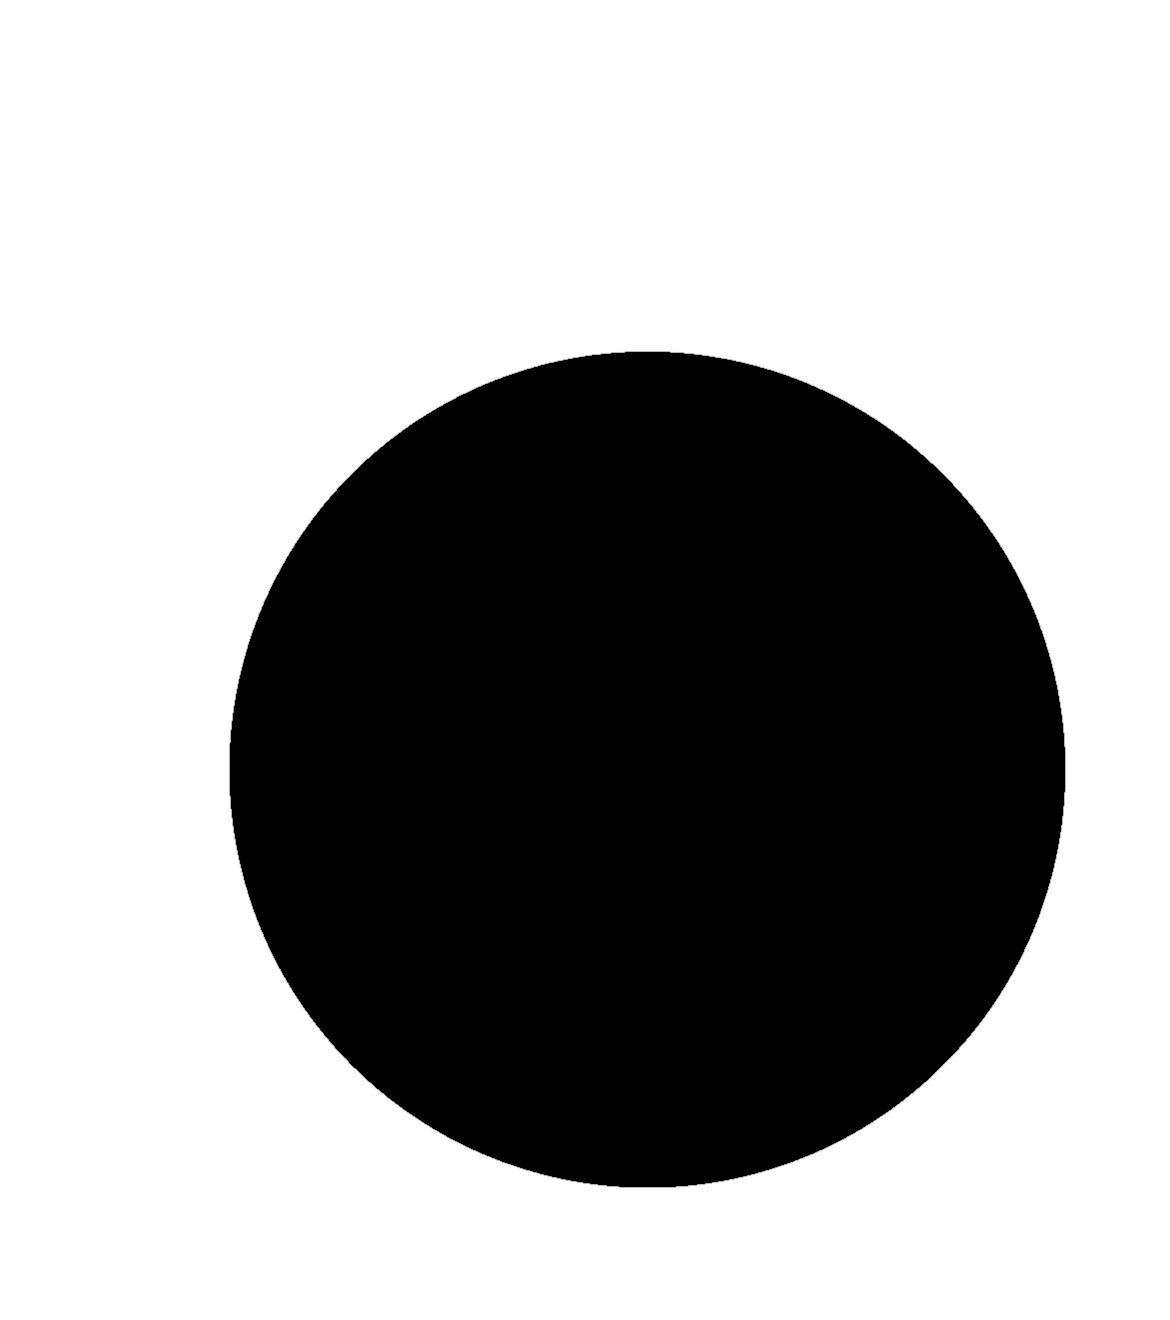
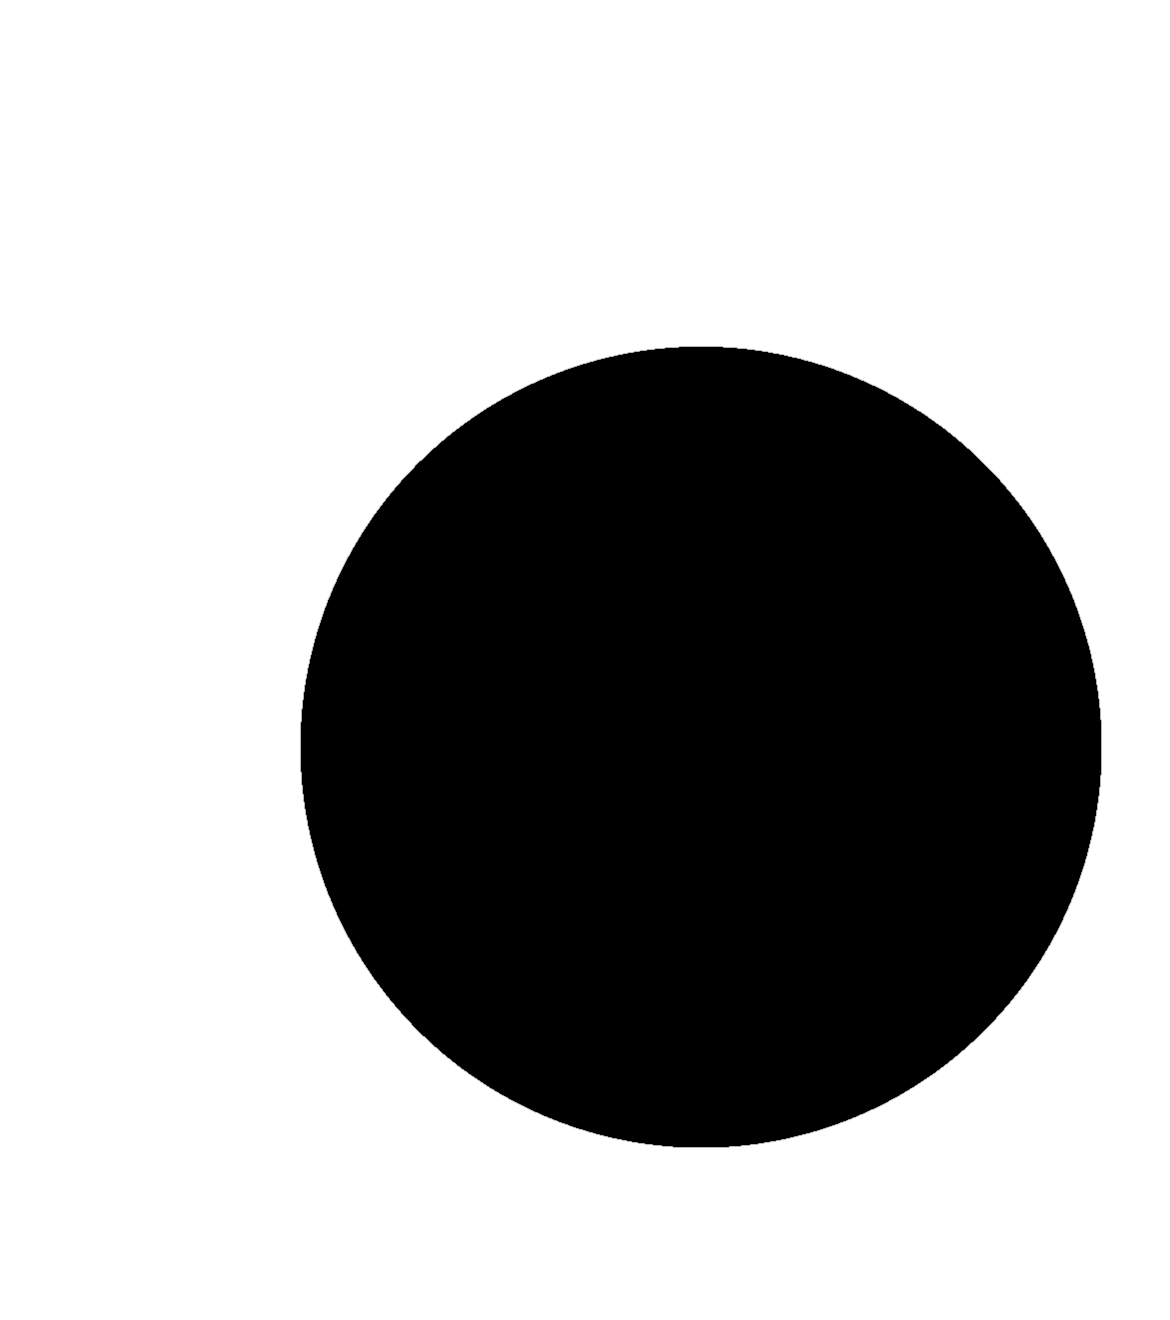
Animate sharp glass without sprite sheets
Use new native 3x rendered transparent art for History and Research. Interpolated transforms move and rotate the baked art without decoding a 49 MB atlas. Give the smaller ornaments a shallow alternating perspective tilt and keep the existing pause and Reduce Motion rules.

The old Research check watched its atlas frame index. With a single high-resolution source, progress is a change in the rendered transform.

diff --git a/glass/glass.css b/glass/glass.css
@@ -97,9 +97,32 @@
   .glass[data-float] > .glass-img {
     animation: glass-bob var(--glass-period) ease-in-out infinite alternate;
   }
+  .glass[data-hero-motion="sway"] > .glass-img {
+    transform-origin: 59.5% 57%;
+    animation: glass-capsule-sway 6s ease-in-out infinite;
+  }
+  .glass[data-hero-motion="orbit"] > .glass-img {
+    transform-origin: 58% 55%;
+    animation: glass-bubble-drift 7s ease-in-out infinite;
+  }
   .glass[data-glass-paused] > .glass-img { animation-play-state: paused; }
 }
-@keyframes glass-bob { to { transform: translateY(calc(-1 * var(--glass-bob))); } }
+@keyframes glass-bob {
+  from { transform: perspective(650px) rotateX(3deg) rotateY(-5deg); }
+  to { transform: perspective(650px) translateY(calc(-1 * var(--glass-bob))) rotateX(-3deg) rotateY(5deg); }
+}
+@keyframes glass-capsule-sway {
+  0%, 100% { transform: translate(0, 0) rotate(0deg); }
+  25% { transform: translate(3px, -7px) rotate(6deg); }
+  50% { transform: translate(0, -11px) rotate(0deg); }
+  75% { transform: translate(-3px, -7px) rotate(-6deg); }
+}
+@keyframes glass-bubble-drift {
+  0%, 100% { transform: translate(0, 0) rotate(0deg); }
+  25% { transform: translate(9px, -8px) rotate(5deg); }
+  50% { transform: translate(0, -15px) rotate(0deg); }
+  75% { transform: translate(-9px, -8px) rotate(-5deg); }
+}
 @media (prefers-reduced-motion: reduce) {
   .glass[data-still]:not(.pulse) { animation: none; }
 }

diff --git a/glass/layout.js b/glass/layout.js
@@ -275,12 +275,8 @@ window.GLASS_LAYOUT = {
   "history": {
    "height": 1500,
    "hero": {
-    "overlay": "assets/motion/overlay-history",
-    "frames": 18,
-    "cols": 6,
-    "fps": 12,
+    "motion": "sway",
     "still": "assets/hero-overlays/overlay-history",
-    "bob": 3,
     "w": 390,
     "h": 440,
     "note": "live text (session count) sits underneath"
@@ -331,10 +327,7 @@ window.GLASS_LAYOUT = {
   "research": {
    "height": 1500,
    "hero": {
-    "overlay": "assets/motion/overlay-research",
-    "frames": 18,
-    "cols": 6,
-    "fps": 12,
+    "motion": "orbit",
     "still": "assets/hero-overlays/overlay-research",
     "w": 390,
     "h": 440,

diff --git a/glass/scene.js b/glass/scene.js
@@ -43,6 +43,7 @@
     // live-number hero: a glass overlay, above the text
     const d = el('div', 'glass front', { left: '0', top: '0', width: px(h.w), height: px(h.h) });
     d.dataset.glassHero = '';
+    if (h.motion) d.dataset.heroMotion = h.motion;
     if (h.overlay && (!reduce || !h.still)) {
       if (h.fps) d.dataset.fps = h.fps;
       d.dataset.sheet = o.base + h.overlay; d.dataset.frames = h.frames; d.dataset.cols = h.cols;

diff --git a/tools/glass/render_all.py b/tools/glass/render_all.py
@@ -75,9 +75,9 @@ HEROES = {
     'workout':  dict(canvas=(390, 340), text=dict(lines=['18:42'], px=150, top=110, left=-4), motion='spin',
                      objs=[('torus', (282, 214), 230, (58, 22, 0), dict(thick=0.12))], spin=('x', 180), overlay=True),
     'history':  dict(canvas=(390, 440), text=dict(lines=['41'], px=300, top=96, left=-10), motion='sway',
-                     objs=[('capsule', (231, 253), 330, (-12, 20, 52), dict(thick=0.25))], overlay=True),
+                     objs=[('capsule', (232, 252), 314, (-16, 24, 49), dict(thick=0.235))], overlay=True),
     'research': dict(canvas=(390, 440), text=dict(lines=['62'], px=300, top=96, left=-10), motion='orbit',
-                     objs=[('sphere', (212, 250), 230, (0, 0, 0), {})], overlay=True),
+                     objs=[('sphere', (227, 244), 222, (0, 0, 0), {})], overlay=True),
 }
 
 # ------------------------------------------------------------------ helpers
@@ -209,6 +209,10 @@ def build_jobs(OUT, want):
             jobs.append(('overlay', (key, 0, 0, f'{OUT}/stills/overlay-{key}.webp')))
         jobs.append(('overlay', ('today', 0, 0, f'{OUT}/stills/overlay-today.webp')))
     for key in ('history', 'research'):
+        if f'overlay-still-{key}' in want:
+            os.makedirs(f'{OUT}/stills', exist_ok=True)
+            jobs.append(('overlay', (key, 0, 0, f'{OUT}/stills/overlay-{key}.webp')))
+    for key in ('history', 'research'):
         if not want or 'loops' in want or f'overlay-{key}' in want:
             directory = f'{OUT}/overlay-{key}'
             os.makedirs(directory, exist_ok=True)
@@ -245,6 +249,8 @@ if __name__ == '__main__':
     OUT = os.path.abspath(sys.argv[1])
     want = set(sys.argv[2:])
     os.makedirs(OUT, exist_ok=True)
+    if any(tag.startswith('overlay-still-') for tag in want):
+        G.S = C.S = 3
     jobs = build_jobs(OUT, want)
     print(len(jobs), 'images', flush=True)
     with Pool(min(len(jobs) or 1, int(os.environ.get('E26_RENDER_JOBS', os.cpu_count() or 1)))) as p:

diff --git a/tools/glass/README.md b/tools/glass/README.md
@@ -8,6 +8,7 @@ Everything in `assets/` was made by the scripts in this folder. You can change a
 ## Regenerate
     python3 render_all.py /tmp/render stills       # every still, about 1 minute
     python3 render_all.py /tmp/render loops        # every spin and hero loop, about 25 minutes on 2 cores
+    python3 render_all.py /tmp/overlays overlay-still-history overlay-still-research  # native 3x transparent art
     python3 render_all.py /tmp/render sp-star      # just one shape's spin sheet
     python3 render_all.py /tmp/render hero-today-push-b   # just one hero loop
     python3 assemble.py /tmp/render ../assets      # turn frames into MP4s and sheets, copy stills in
